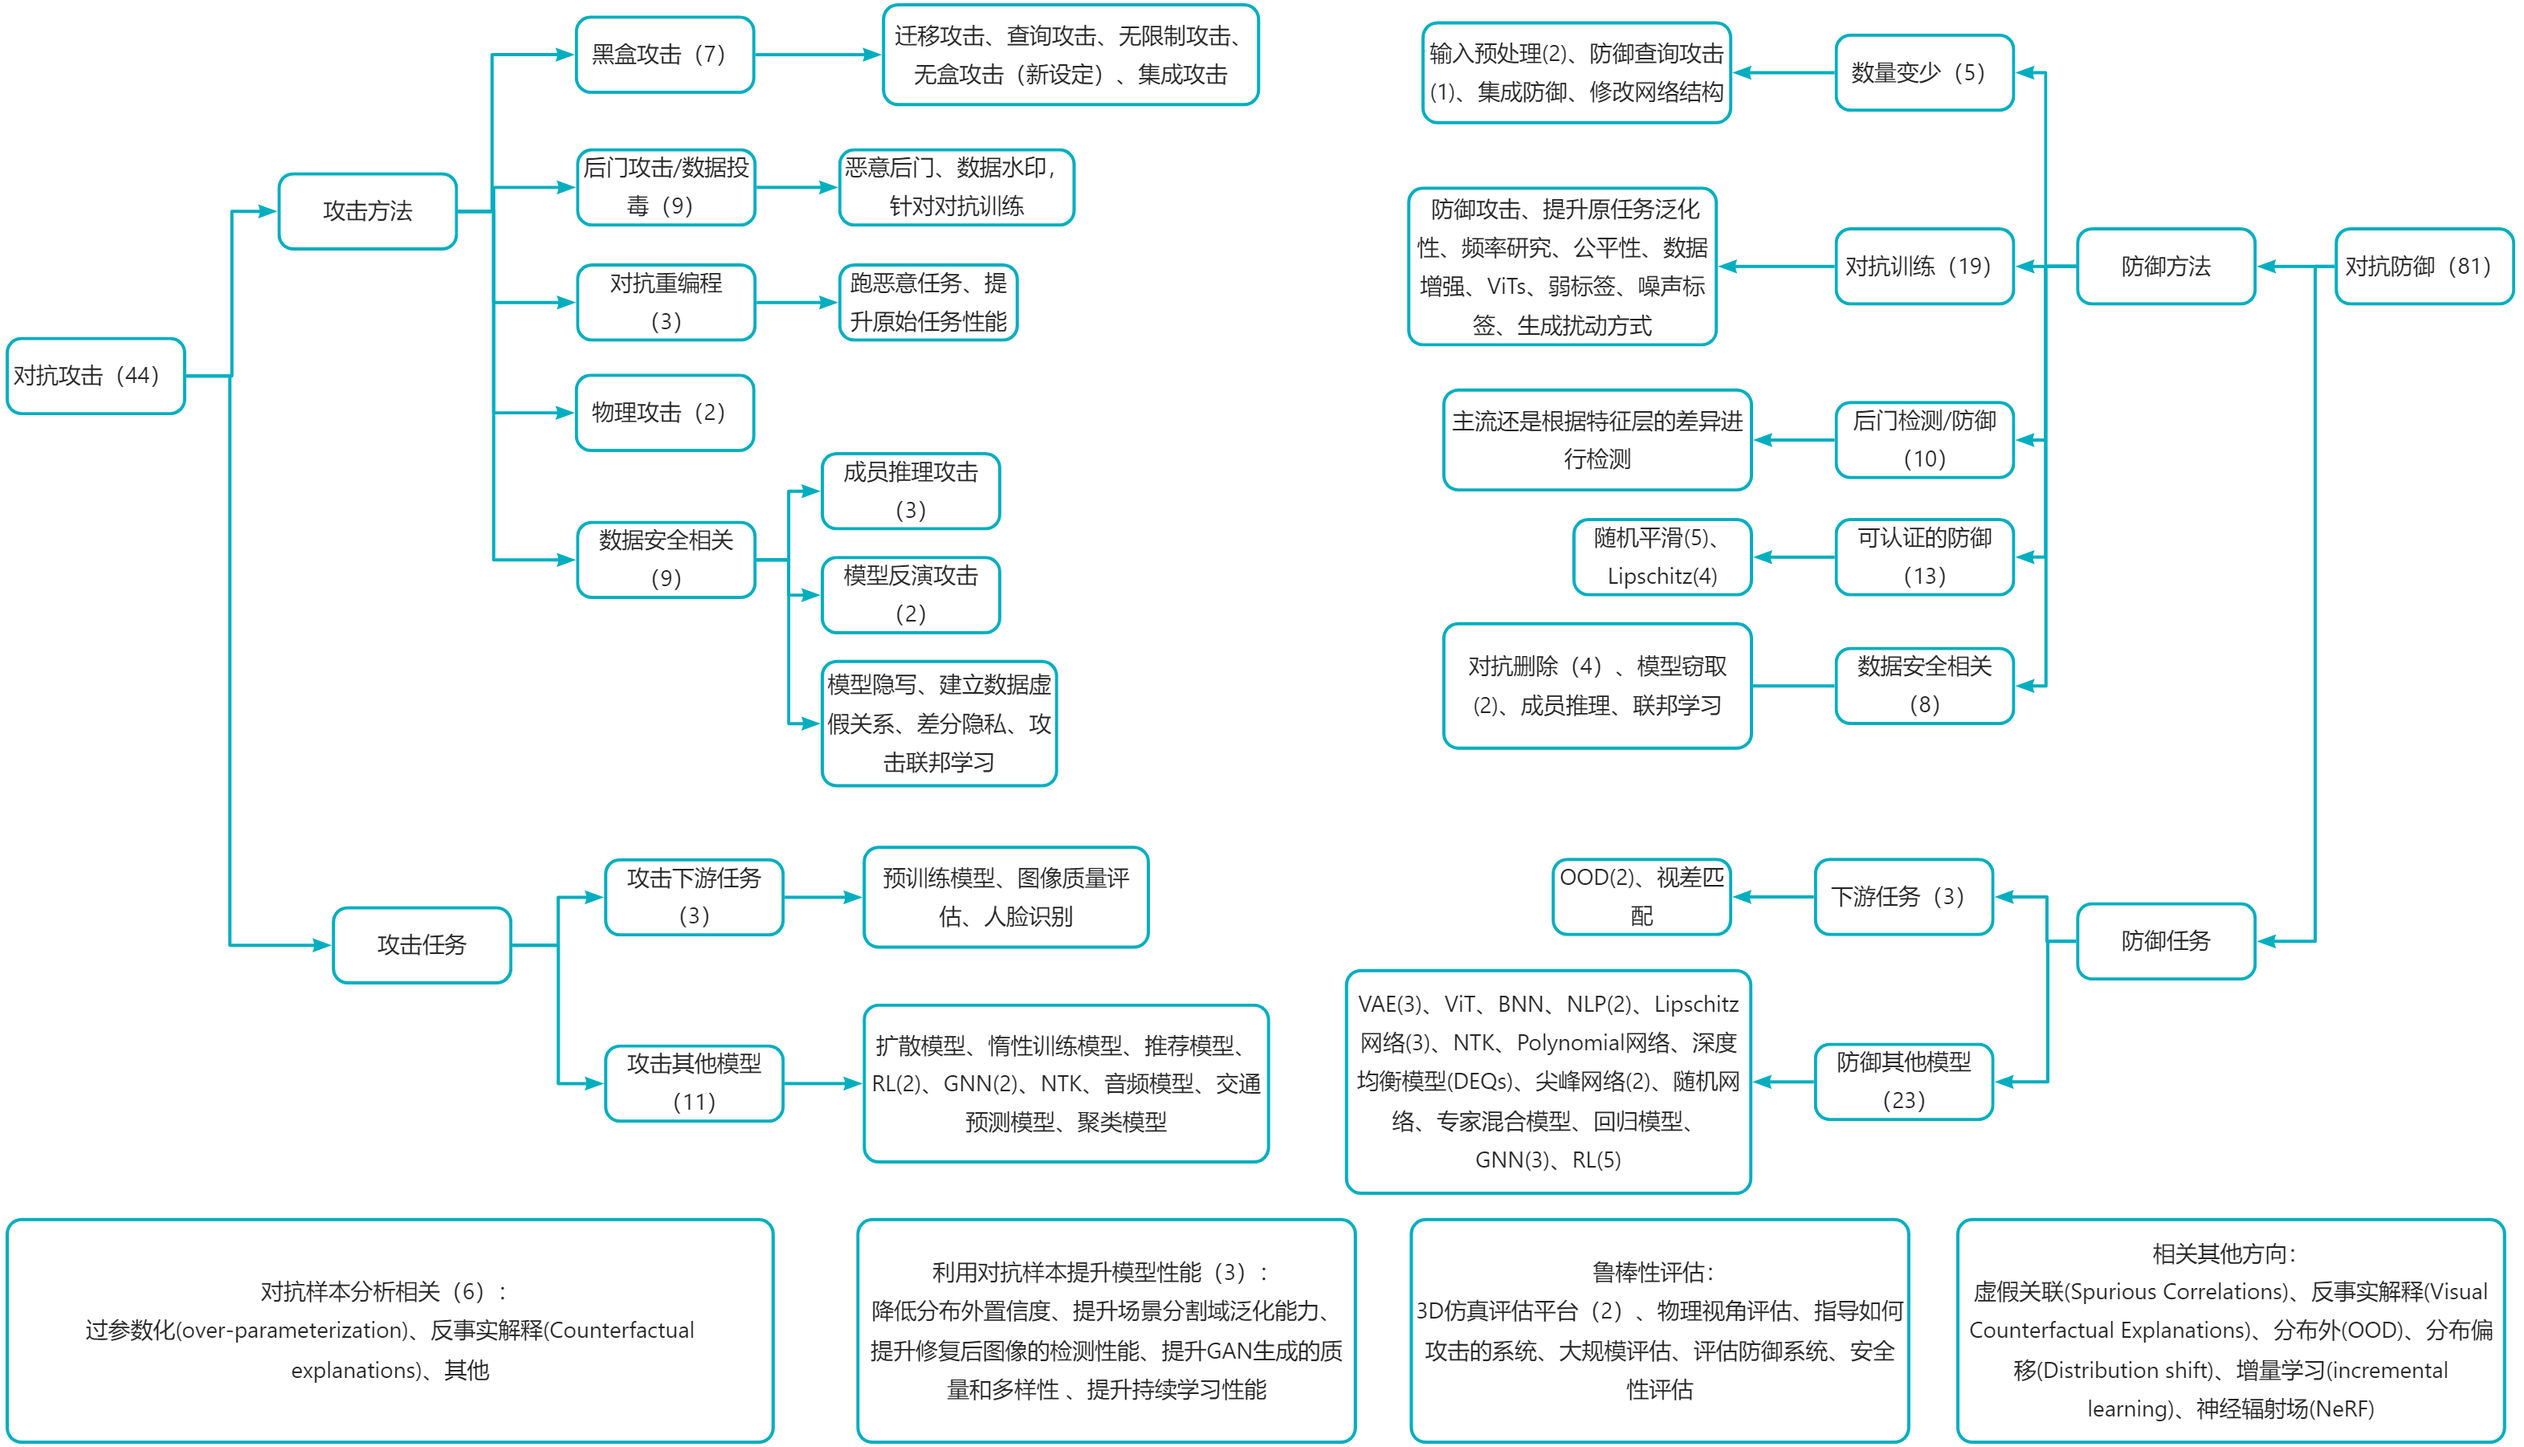
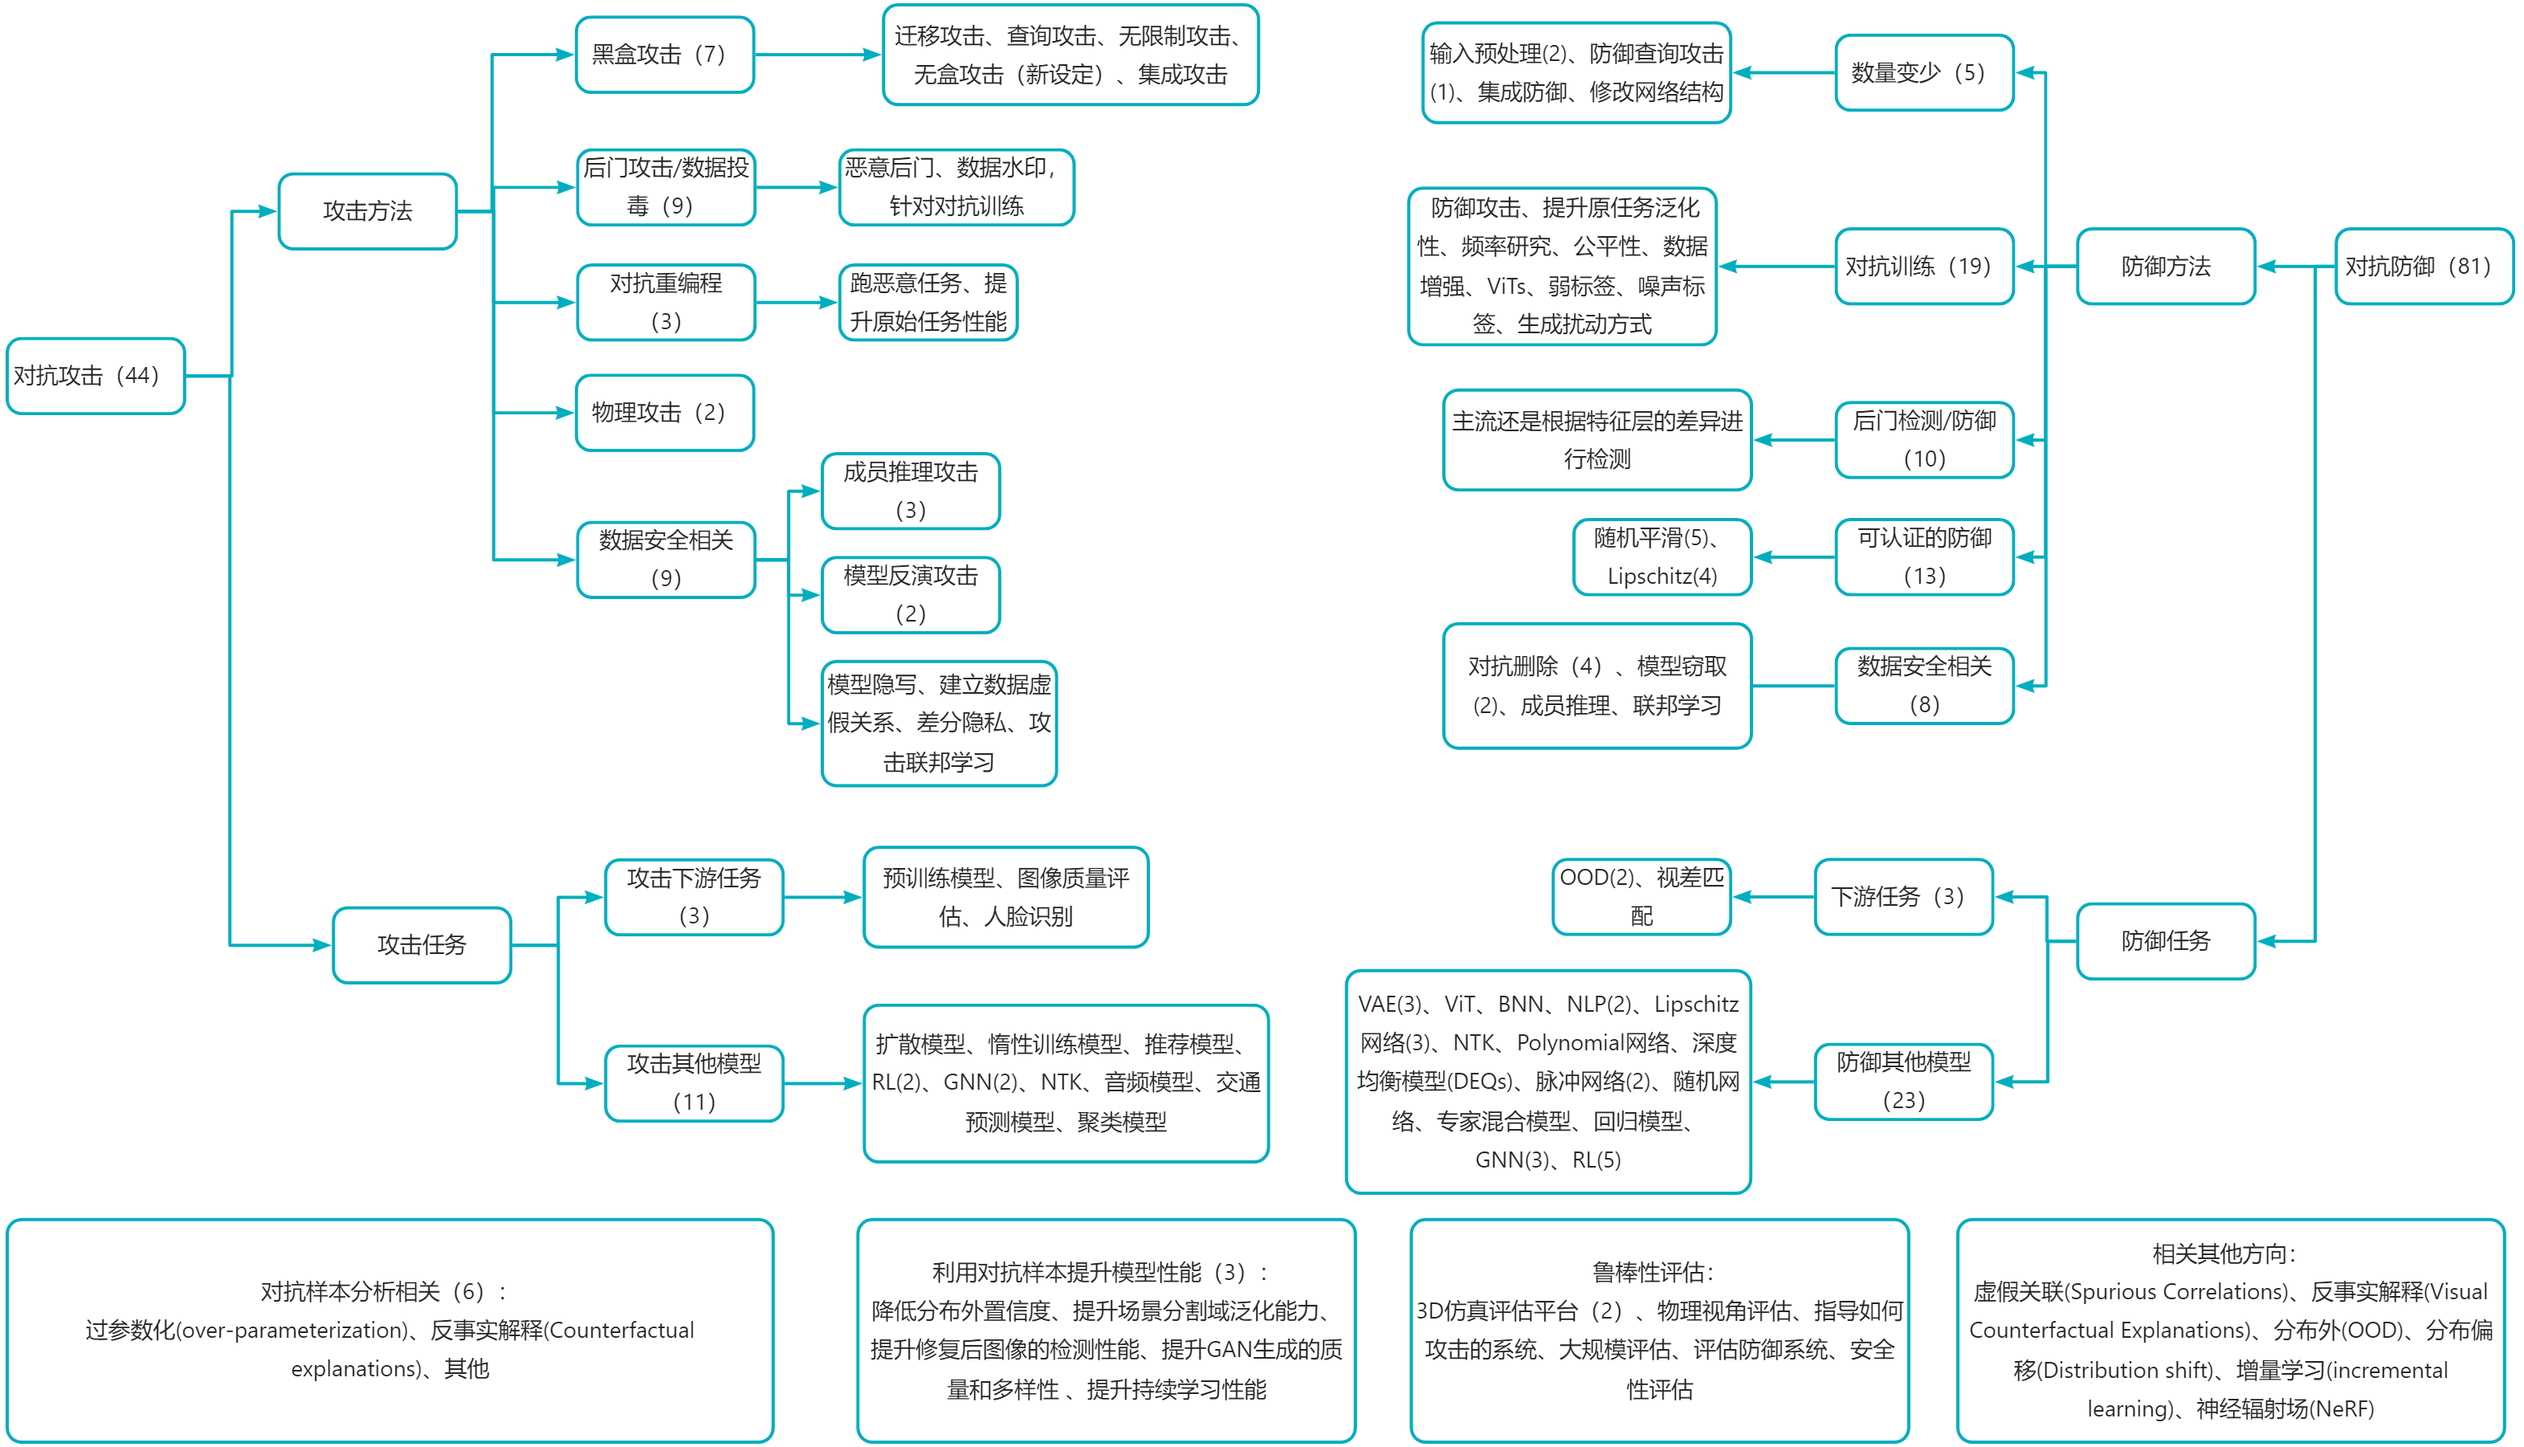
Update

diff --git a/README.md b/README.md
@@ -89,7 +89,7 @@ Language : [EN](./README.en.md)  | CN
     - [二值网络 (Binary Neural Networks, BNN)](#二值网络-binary-neural-networks-bnn)
     - [自然语言模型 (Natural Language Processing, NLP)](#自然语言模型-natural-language-processing-nlp)
     - [深度均衡模型 (Deep Equilibrium Models, DEQs)](#深度均衡模型-deep-equilibrium-models-deqs)
-    - [尖峰网络 (Spiking Neural Network)](#尖峰网络-spiking-neural-network)
+    - [脉冲神经网络 (Spiking Neural Network)](#脉冲神经网络-spiking-neural-network)
     - [随机神经网络 (Stochastic Neural Networks)](#随机神经网络-stochastic-neural-networks)
     - [回归 (Regression)](#回归-regression)
     - [神经切线核 (Neural Tangent Kernel, NTK)](#神经切线核-neural-tangent-kernel-ntk)
@@ -1180,7 +1180,7 @@ Zonghan Yang, Tianyu Pang, Yang Liu
 
 ***TL;DR:*** This paper evaluated the robustness of the general deep equilibrium model (DEQ) in the traditional white-box attack-defense setting. The authors first pointed out the challenges of training robust DEQs. Then they developed a method to estimate the intermediate gradients of DEQs and integrate them into the adversarial attack pipelines.
 
-### 尖峰网络 (Spiking Neural Network)
+### 脉冲神经网络 (Spiking Neural Network)
 
 * **[Toward Robust Spiking Neural Network Against Adversarial Perturbation ](https://openreview.net/forum?id=Ncyc0JS7Q16)**
 
